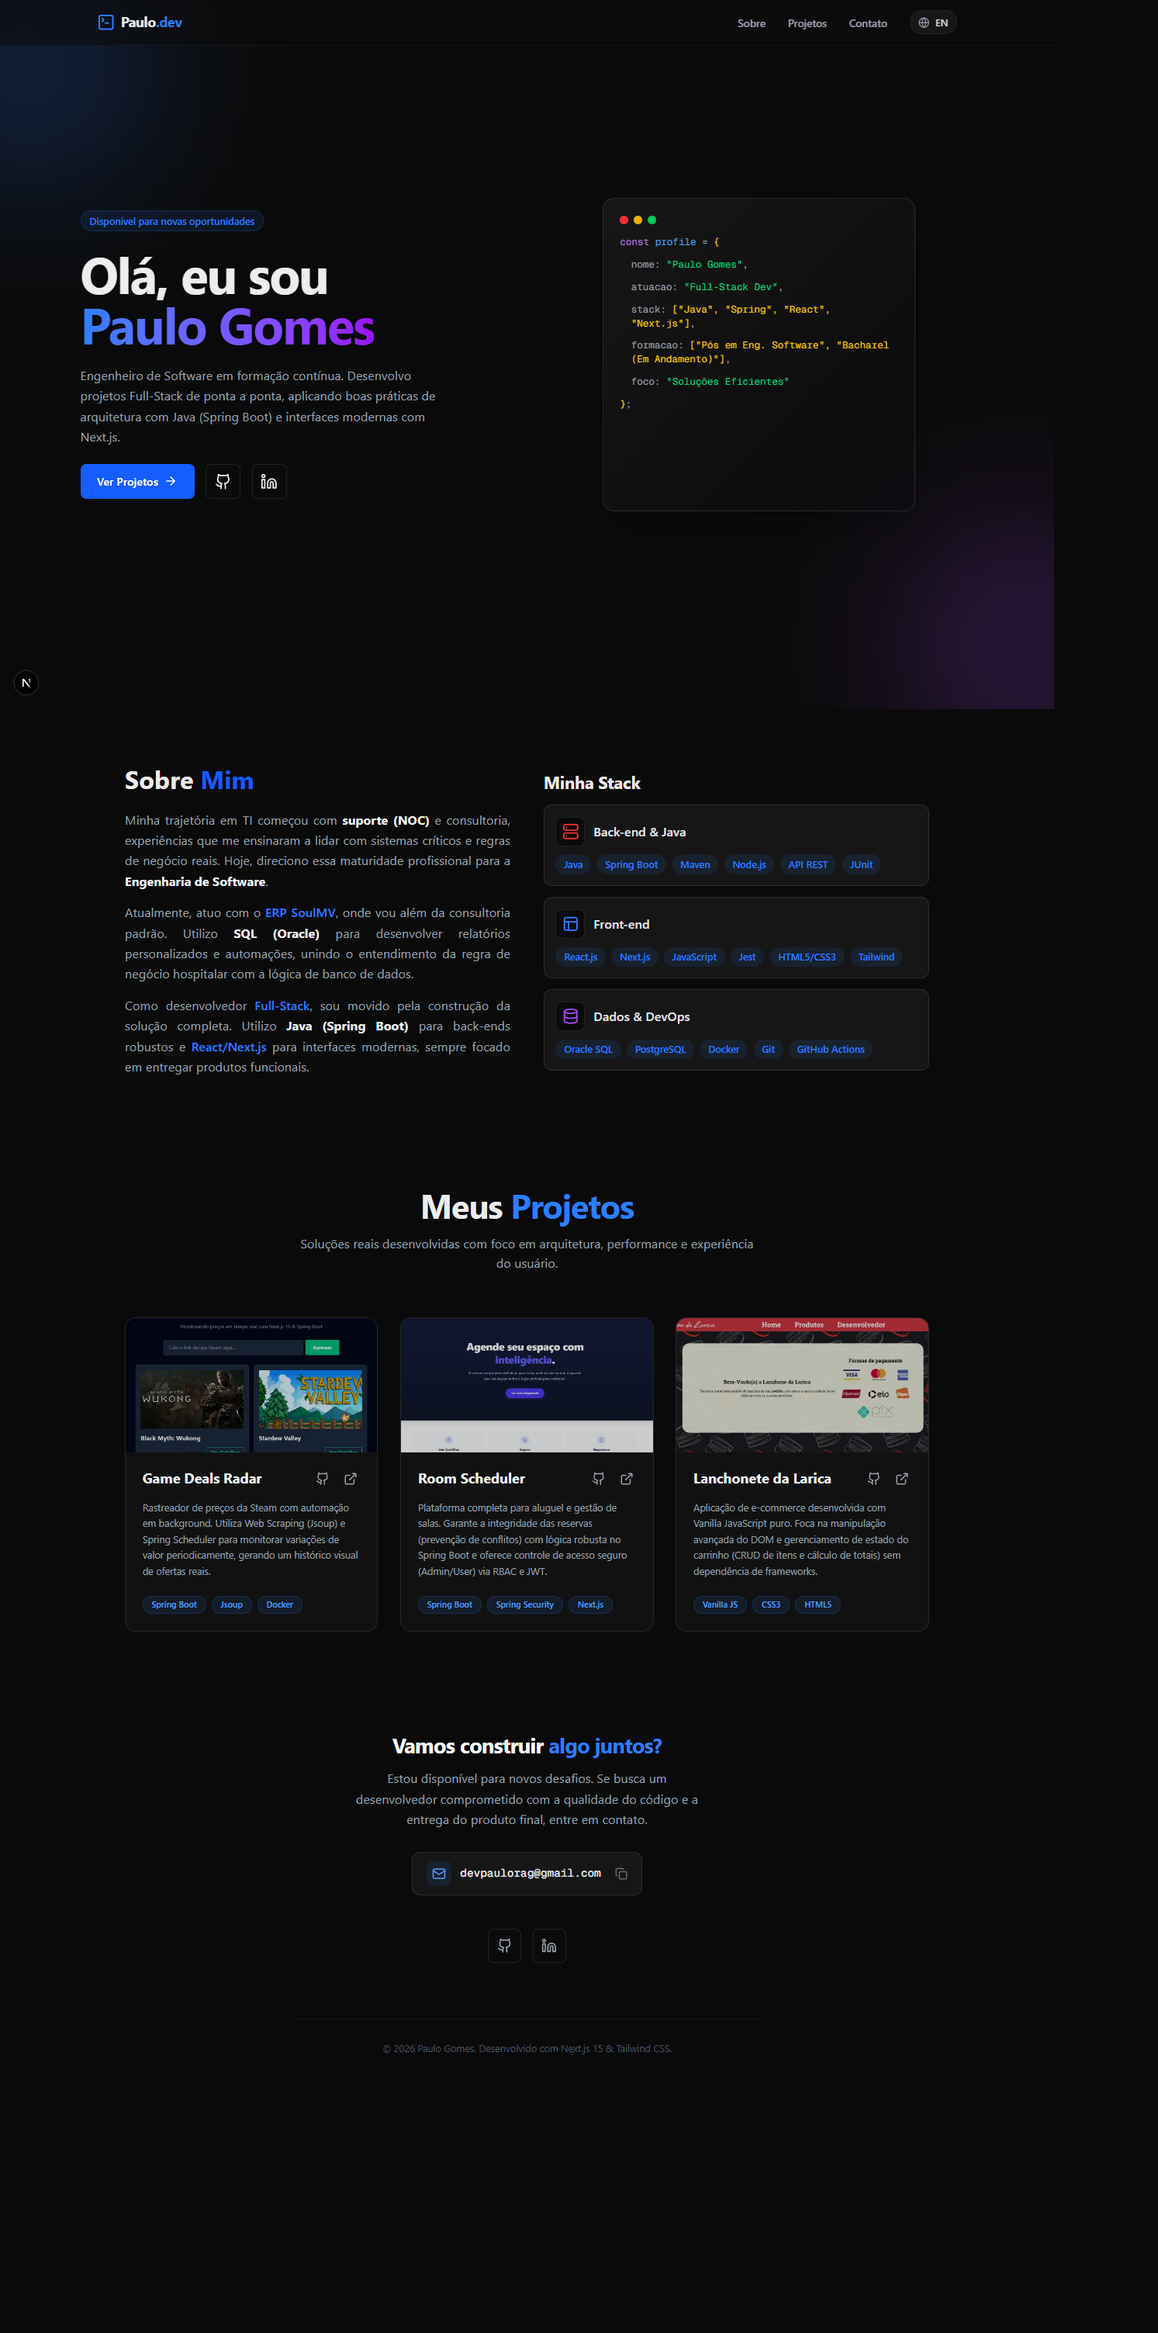
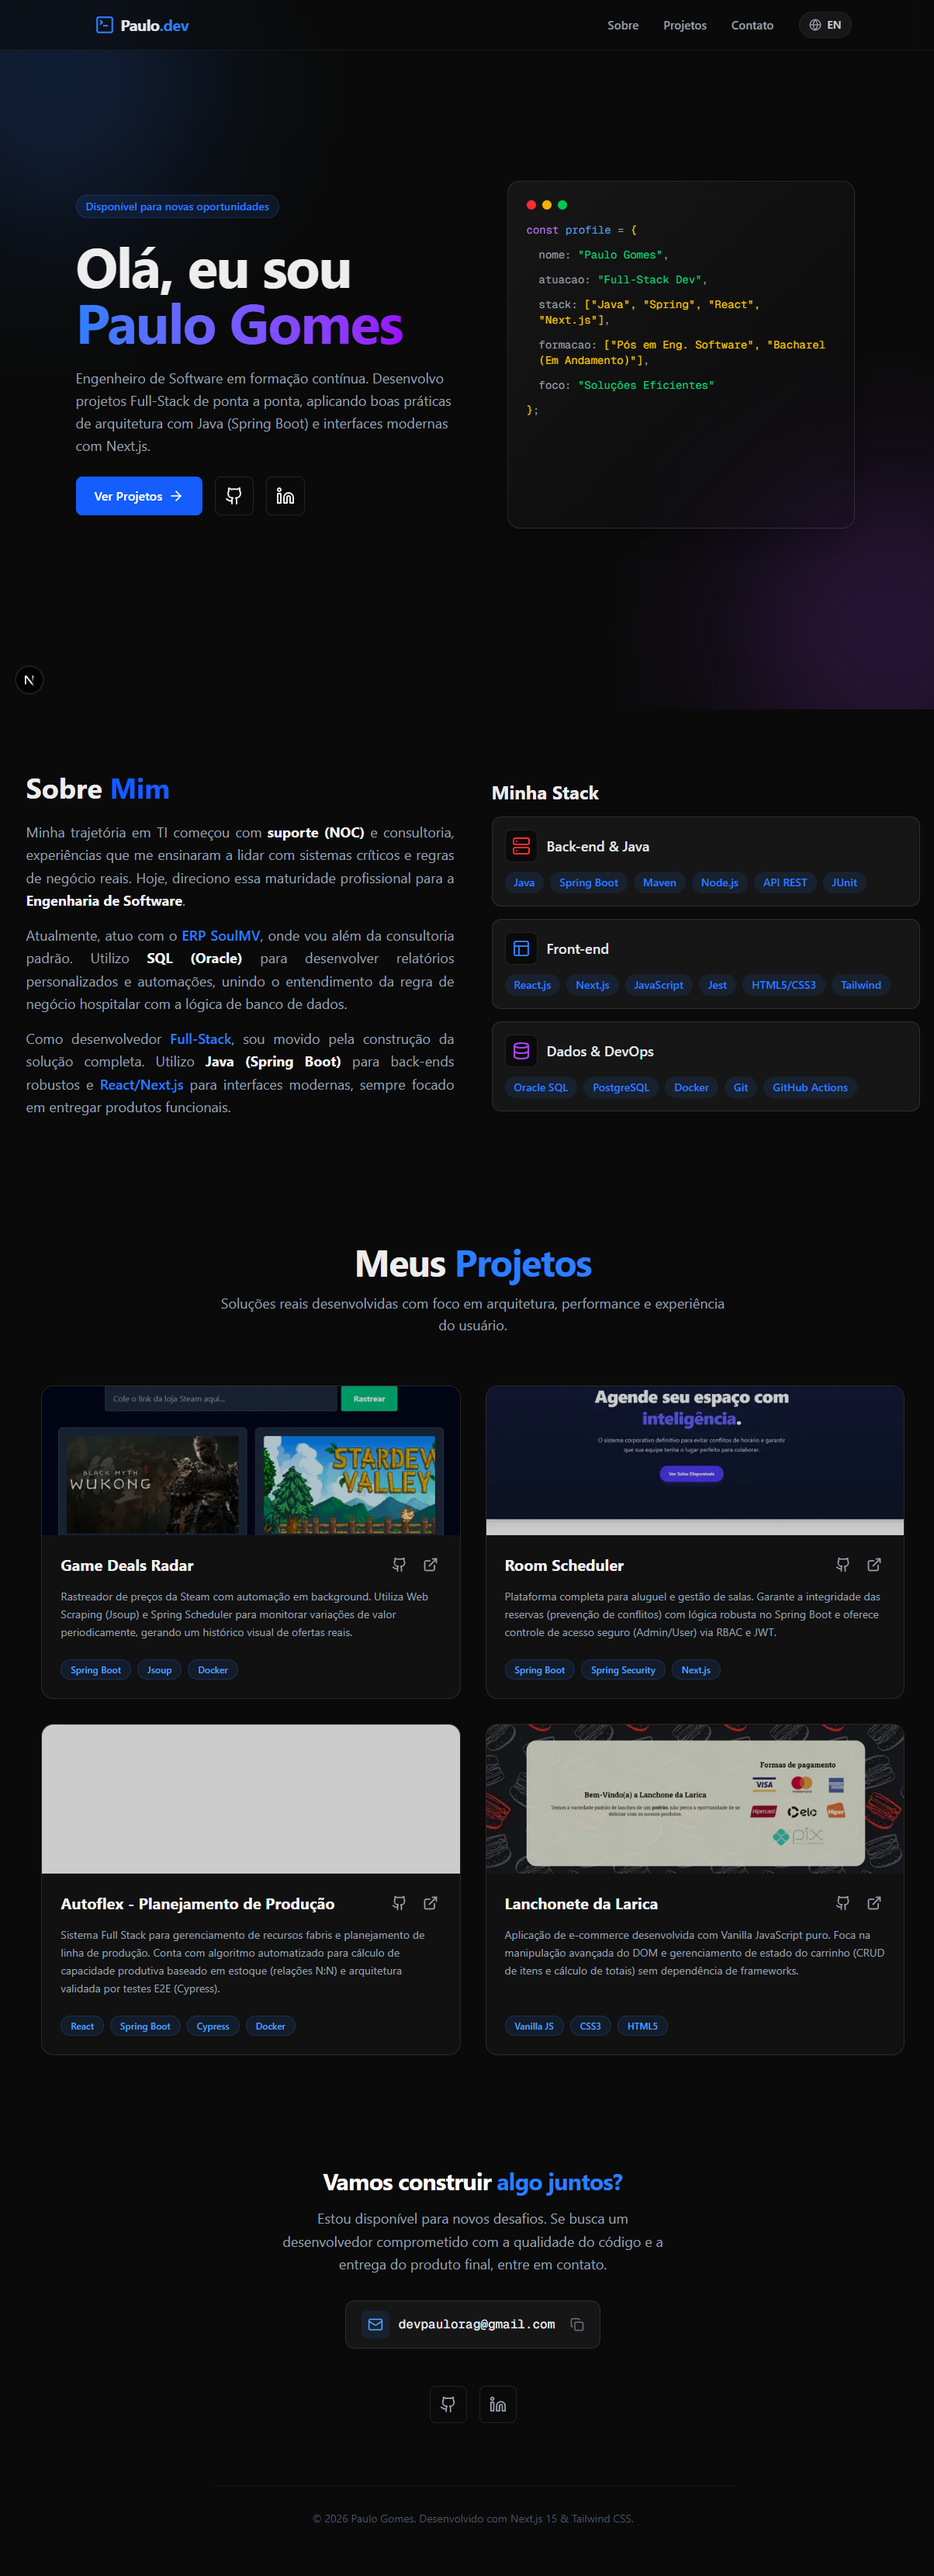
update projects and README.md file

diff --git a/src/lib/dictionaries.tsx b/src/lib/dictionaries.tsx
@@ -107,6 +107,15 @@ export const dictionary = {
                     demo: "https://room-scheduler-gold.vercel.app/",
                 },
                 {
+                    title: "Autoflex - Planejamento de Produção",
+                    description:
+                        "Sistema Full Stack para gerenciamento de recursos fabris e planejamento de linha de produção. Conta com algoritmo automatizado para cálculo de capacidade produtiva baseado em estoque (relações N:N) e arquitetura validada por testes E2E (Cypress).",
+                    tags: ["React", "Spring Boot", "Cypress", "Docker"],
+                    image: "/projects/autoflex.png",
+                    github: "https://github.com/paulorag/autoflex-test",
+                    demo: "https://autoflex-test.vercel.app/",
+                },
+                {
                     title: "Lanchonete da Larica",
                     description:
                         "Aplicação de e-commerce desenvolvida com Vanilla JavaScript puro. Foca na manipulação avançada do DOM e gerenciamento de estado do carrinho (CRUD de itens e cálculo de totais) sem dependência de frameworks.",
@@ -227,6 +236,15 @@ export const dictionary = {
                     image: "/projects/roomScheduler.png",
                     github: "https://github.com/paulorag/roomScheduler",
                     demo: "https://room-scheduler-gold.vercel.app/",
+                },
+                {
+                    title: "Autoflex - Production Planning",
+                    description:
+                        "Full Stack system for manufacturing resource management and production line planning. Features an automated algorithm to calculate production capacity based on current stock (N:N relationships) and an architecture validated by E2E tests (Cypress).",
+                    tags: ["React", "Spring Boot", "Cypress", "Docker"],
+                    image: "/projects/autoflex.png",
+                    github: "https://github.com/paulorag/autoflex-test",
+                    demo: "https://autoflex-test.vercel.app/",
                 },
                 {
                     title: "Larica's Snack Bar",

diff --git a/src/lib/data.ts b/src/lib/data.ts
@@ -18,6 +18,15 @@ export const projects = [
         demo: "https://room-scheduler-gold.vercel.app/",
     },
     {
+        title: "Autoflex - Planejamento de Produção",
+        description:
+            "Sistema Full Stack para gerenciamento de recursos fabris e planejamento de linha de produção. Conta com algoritmo automatizado para cálculo de capacidade produtiva baseado em estoque (relações N:N) e arquitetura validada por testes E2E (Cypress).",
+        tags: ["React", "Spring Boot", "Cypress", "Docker"],
+        image: "/projects/autoflex.png",
+        github: "https://github.com/paulorag/autoflex-test",
+        demo: "https://autoflex-test.vercel.app/",
+    },
+    {
         title: "Lanchonete da Larica",
         description:
             "Aplicação de e-commerce desenvolvida com Vanilla JavaScript puro. Foca na manipulação avançada do DOM e gerenciamento de estado do carrinho (CRUD de itens e cálculo de totais) sem dependência de frameworks.",

diff --git a/src/components/sections/Projects.tsx b/src/components/sections/Projects.tsx
@@ -13,7 +13,7 @@ export function Projects() {
             id="projetos"
             className="py-20 px-4 md:px-6 bg-[#0a0a0a] scroll-mt-28"
         >
-            <div className="container mx-auto max-w-6xl">
+            <div className="container mx-auto max-w-[95%] 2xl:max-w-[1500px]">
                 <motion.div
                     initial={{ opacity: 0, y: 20 }}
                     whileInView={{ opacity: 1, y: 0 }}
@@ -32,7 +32,7 @@ export function Projects() {
                     </p>
                 </motion.div>
 
-                <div className="grid grid-cols-1 md:grid-cols-2 lg:grid-cols-3 gap-8">
+                <div className="grid grid-cols-1 md:grid-cols-2 xl:grid-cols-4 gap-8">
                     {dict.projects.items.map((project, index) => (
                         <motion.div
                             key={index}
